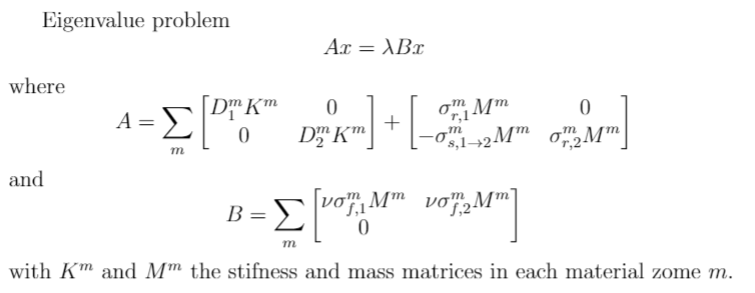
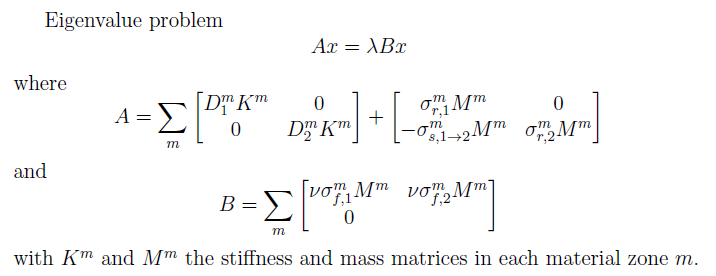
small typos in latex

diff --git a/latex_eqs.tex b/latex_eqs.tex
@@ -33,5 +33,5 @@ B = \sum_m
 0 & 
 \end{bmatrix}
 \]
-with $K^m$ and $M^m$ the stifness and mass matrices in each material zome $m$.
+with $K^m$ and $M^m$ the stiffness and mass matrices in each material zone $m$.
 \end{document}
